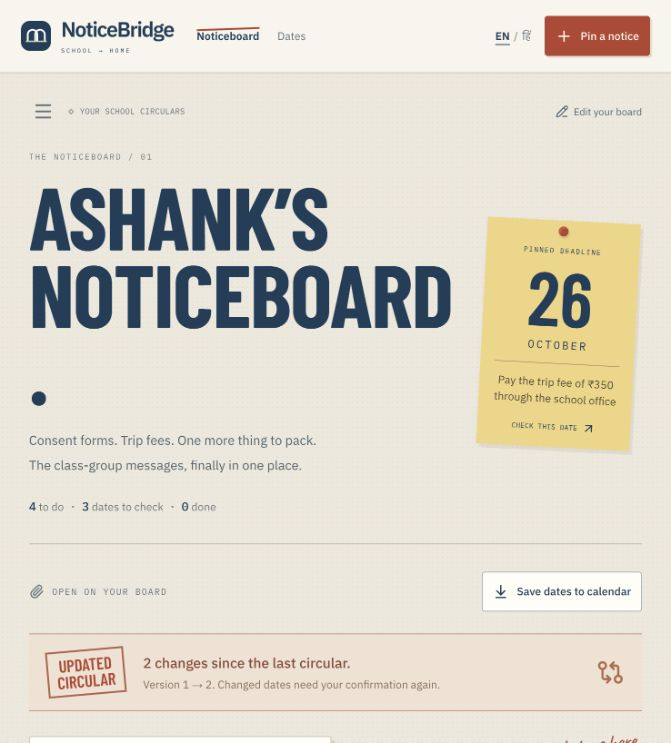
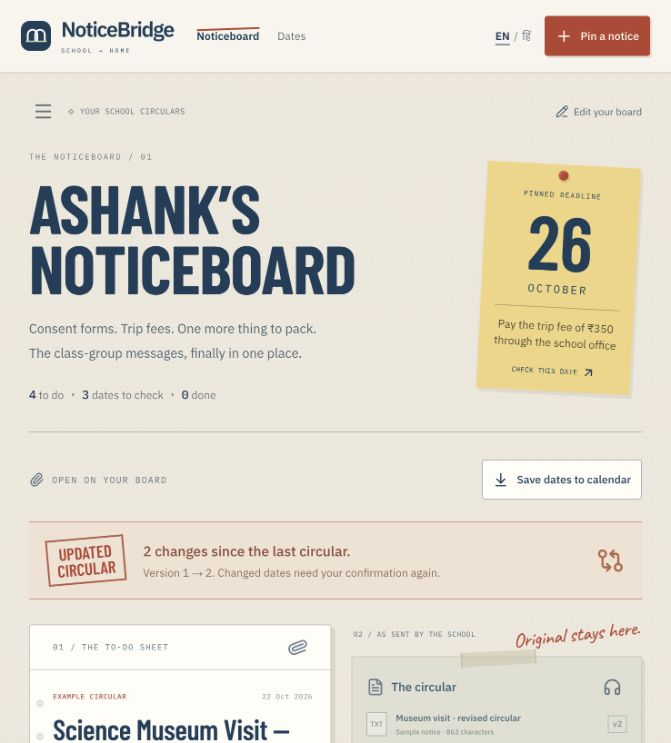
fix: keep the noticeboard masthead readable on tablets

diff --git a/src/components/noticebridge.tsx b/src/components/noticebridge.tsx
@@ -566,7 +566,7 @@ export default function NoticeBridge() {
                         ? `${workspace.profile.name.toUpperCase()}’S`
                         : "THE SCHOOL"}
                     <br />
-                    <span>{hi ? "नोटिसबोर्ड।" : "NOTICEBOARD."}</span>
+                    <span>{hi ? "नोटिसबोर्ड" : "NOTICEBOARD"}</span>
                   </>
                 )}
               </h1>

diff --git a/src/app/globals.css b/src/app/globals.css
@@ -3050,3 +3050,12 @@ input[type="checkbox"] {
     letter-spacing: -1.5px;
   }
 }
+
+@media (min-width: 621px) and (max-width: 780px) {
+  .welcome h1 {
+    font-size: clamp(62px, 10.2vw, 80px);
+  }
+  .welcome h1 > span {
+    white-space: nowrap;
+  }
+}
